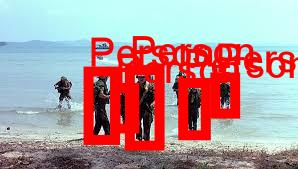
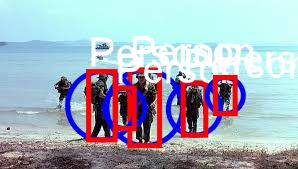
객체 인식 모형 동그라미 추가

Changed region(s): [[0.2114, 0.2071, 1.0, 0.9467]]

diff --git a/index.js b/index.js
@@ -1,5 +1,7 @@
 // Import required packages
 var AWS = require('aws-sdk');
+const { createCanvas, loadImage, registerFont } = require('canvas');
+const fs = require('fs');
 
 // AWS access details
 AWS.config.update({
@@ -31,10 +33,6 @@ rekognition.detectLabels(params, function(err, data) {
         console.log(data); // successful response
         const labels = data.Labels; // Assign the detected labels to the 'labels' array
 
-        ///////////////////////////////////
-        const { createCanvas, loadImage, registerFont } = require('canvas');
-        const fs = require('fs');
-
         // Load Arial font
         registerFont('arial.ttf', { family: 'Sans' });
 
@@ -58,11 +56,8 @@ rekognition.detectLabels(params, function(err, data) {
             const fontSize = 40;
             const fontFamily = 'Arial';
             context.font = `${fontSize}px ${fontFamily}`;
-            context.lineWidth = 10;
-            context.fillStyle = 'red';
-            context.strokeStyle = 'red';
 
-            // Draw labels on the image
+            // Draw circles and rectangles around objects in the foreground
             labels.forEach((label) => {
                 const name = label.Name;
                 label.Instances.forEach((instance) => {
@@ -75,11 +70,29 @@ rekognition.detectLabels(params, function(err, data) {
                         const width = Width * imageWidth;
                         const height = Height * imageHeight;
 
-                        // Draw the bounding box and label text
+                        // Calculate the center coordinates of the bounding box
+                        const centerX = x + width / 2;
+                        const centerY = y + height / 2;
+
+                        // Draw the circle
+                        context.beginPath();
+                        context.arc(centerX, centerY, Math.max(width, height) / 2, 0, 2 * Math.PI);
+                        context.lineWidth = 5;
+                        context.strokeStyle = 'blue';
+                        context.fillStyle = 'transparent';
+                        context.stroke();
+
+                        // Draw the rectangle
                         context.beginPath();
                         context.rect(x, y, width, height);
+                        context.lineWidth = 5;
+                        context.strokeStyle = 'red';
+                        context.fillStyle = 'transparent';
                         context.stroke();
-                        context.fillText(name, x, y - 5); // Adjust the text position to be above the bounding box
+
+                        // Draw the label text
+                        context.fillStyle = 'white'; // Set the text color to white
+                        context.fillText(name, x, y - 5); // Adjust the text position to be above the shapes
                     }
                 });
             });
@@ -92,6 +105,129 @@ rekognition.detectLabels(params, function(err, data) {
                 console.log('Image saved: labeled_image4.jpg');
             });
         });
-        ///////////////////////////////////
     }
 });
+
+
+// // Import required packages
+// var AWS = require('aws-sdk');
+// const { createCanvas, loadImage, registerFont } = require('canvas');
+// const fs = require('fs');
+
+// // AWS access details
+// AWS.config.update({
+//     accessKeyId: 'AKIAZWBYDAILKLJD4LMZ',
+//     secretAccessKey: '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',
+//     region: 'ap-northeast-2'
+// });
+
+
+// // Input parameters
+// var params = {
+//     Image: {
+//         S3Object: {
+//             Bucket: 'projecttest2-1',
+//             Name: 'project_sample6.jpg'
+//         }
+//     },
+//     MaxLabels: 5,
+//     MinConfidence: 80
+// };
+
+// // Call AWS Rekognition Class
+// const rekognition = new AWS.Rekognition();
+
+// // Detect labels
+// rekognition.detectLabels(params, function(err, data) {
+//     if (err) {
+//         console.log(err, err.stack); // an error occurred
+//     } else {
+//         console.log(data); // successful response
+//         const labels = data.Labels; // Assign the detected labels to the 'labels' array
+
+//         // Load Arial font
+//         registerFont('arial.ttf', { family: 'Sans' });
+
+//         // Create a canvas
+//         const canvas = createCanvas();
+//         const context = canvas.getContext('2d');
+
+//         // Load and draw the image
+//         loadImage('project_sample6.jpg').then((image) => {
+//             // Get the original image dimensions
+//             const imageWidth = image.width;
+//             const imageHeight = image.height;
+
+//             // Resize the canvas to match the original image size
+//             canvas.width = imageWidth;
+//             canvas.height = imageHeight;
+
+//             context.drawImage(image, 0, 0);
+
+//             // Set font properties
+//             const fontSize = 40;
+//             const fontFamily = 'Arial';
+//             context.font = `${fontSize}px ${fontFamily}`;
+
+//             // Draw circles and rectangles around objects
+//             labels.forEach((label) => {
+//                 const name = label.Name;
+//                 label.Instances.forEach((instance, index) => {
+//                     if (instance.BoundingBox && instance.BoundingBox.Left) {
+//                         const { Left, Top, Width, Height } = instance.BoundingBox;
+
+//                         // Calculate the bounding box coordinates relative to the original image size
+//                         const x = Left * imageWidth;
+//                         const y = Top * imageHeight;
+//                         const width = Width * imageWidth;
+//                         const height = Height * imageHeight;
+
+//                         // Draw the shape based on the object's index
+//                         if (index === 0) {
+//                             // Draw a circle
+//                             const centerX = x + width / 2;
+//                             const centerY = y + height / 2;
+//                             const radius = Math.max(width, height) / 2;
+
+//                             context.beginPath();
+//                             context.arc(centerX, centerY, radius, 0, 2 * Math.PI);
+//                             context.lineWidth = 5;
+//                             context.strokeStyle = 'blue';
+//                             context.fillStyle = 'transparent';
+//                             context.stroke();
+
+//                             // Draw a rectangle
+//                             context.beginPath();
+//                             context.rect(x, y, width, height);
+//                             context.lineWidth = 5;
+//                             context.strokeStyle = 'red';
+//                             context.fillStyle = 'transparent';
+//                             context.stroke();
+
+//                         } else {
+//                             // Draw a rectangle
+//                             context.beginPath();
+//                             context.rect(x, y, width, height);
+//                             context.lineWidth = 5;
+//                             context.strokeStyle = 'red';
+//                             context.fillStyle = 'transparent';
+//                             context.stroke();
+//                         }
+
+//                         // Draw the label text
+//                         context.fillStyle = 'white';
+//                         context.fillText(name, x, y - 5);
+//                     }
+//                 });
+//             });
+
+//             // Save the image
+//             const out = fs.createWriteStream('labeled_image6.jpg');
+//             const stream = canvas.createJPEGStream();
+//             stream.pipe(out);
+//             out.on('finish', () => {
+//                 console.log('Image saved: labeled_image6.jpg');
+//             });
+//         });
+//     }
+// });
